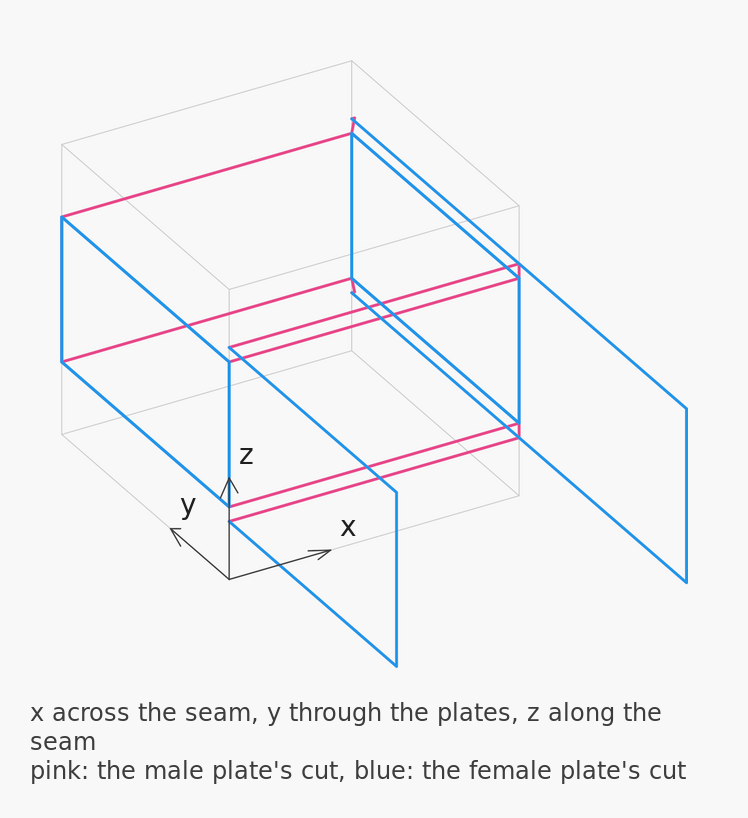
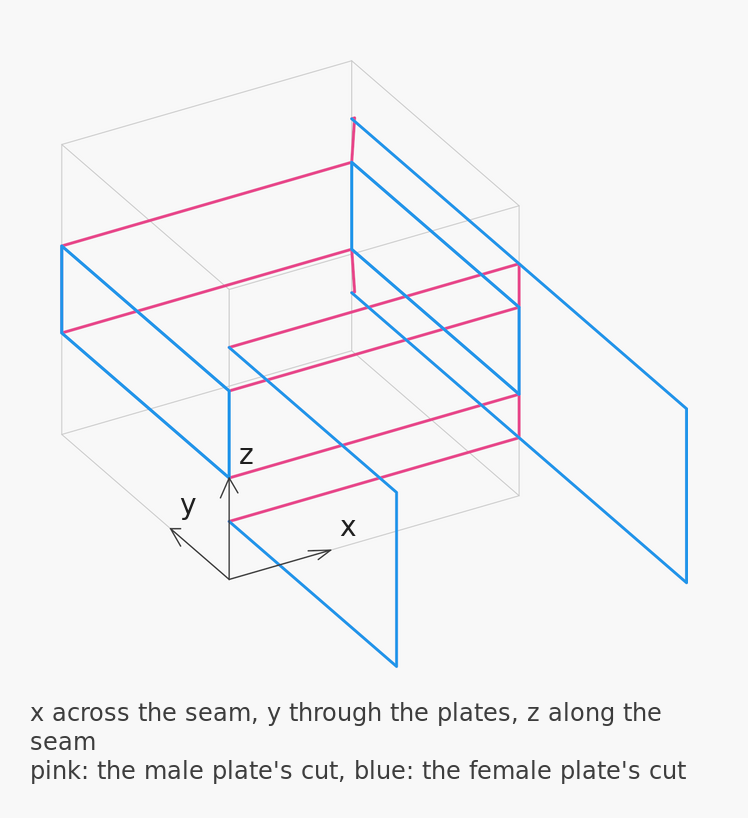
ss_e_op_3: the tenon and its mortise 0.3 of the joint line wide, a shoulder of 0.15 on each side

diff --git a/src/joinery_solver/wood_interaction/wood_interaction_feature/wood_interaction_feature_plate_joints/ss_e_op_3.h b/src/joinery_solver/wood_interaction/wood_interaction_feature/wood_interaction_feature_plate_joints/ss_e_op_3.h
@@ -1,4 +1,5 @@
-/// ss_e_op_3: miter tenon-mortise - four female outlines (two insert_between, two hole), two male. 2024 ran the tenon half a thickness
+/// ss_e_op_3: miter tenon-mortise - four female outlines (two insert_between, two hole), two male; the tenon and its mortise 0.3 of the
+/// joint line wide, a shoulder of 0.15 on each side. 2024 ran the tenon half a thickness
 /// past the floor; here it ends flush with the floor's bottom. The floor's lip around the mortise still runs a thickness past the wall.
 static void ss_e_op_3(InteractionFeaturePlate& joint) {
 
@@ -7,22 +8,22 @@ static void ss_e_op_3(InteractionFeaturePlate& joint) {
     joint.female_outlines[0] = {
         Polyline({Point(0.5,0.5,0.3), Point(0.5,-1.499975,0.3), Point(0.5,-1.499975,-0.3), Point(0.5,0.5,-0.3)}),
         Polyline({Point(0.5,0.5,0.3), Point(0.5,0.5,-0.3)}),
-        Polyline({Point(0.5,-0.5,0.25), Point(0.5,0.5,0.25), Point(0.5,0.5,-0.25), Point(0.5,-0.5,-0.25), Point(0.5,-0.5,0.25)}),
-        Polyline({Point(0.5,-0.5,0.25), Point(0.5,0.5,0.25), Point(0.5,0.5,-0.25), Point(0.5,-0.5,-0.25), Point(0.5,-0.5,0.25)}),
+        Polyline({Point(0.5,-0.5,0.15), Point(0.5,0.5,0.15), Point(0.5,0.5,-0.15), Point(0.5,-0.5,-0.15), Point(0.5,-0.5,0.15)}),
+        Polyline({Point(0.5,-0.5,0.15), Point(0.5,0.5,0.15), Point(0.5,0.5,-0.15), Point(0.5,-0.5,-0.15), Point(0.5,-0.5,0.15)}),
     };
     joint.female_outlines[1] = {
         Polyline({Point(-0.5,-0.499975,0.3), Point(-0.5,-1.49995,0.3), Point(-0.5,-1.49995,-0.3), Point(-0.5,-0.5,-0.3)}),
         Polyline({Point(-0.5,-0.499975,0.3), Point(-0.5,-0.5,-0.3)}),
-        Polyline({Point(-0.5,-0.499975,0.25), Point(-0.5,0.500025,0.25), Point(-0.5,0.500025,-0.25), Point(-0.5,-0.499975,-0.25), Point(-0.5,-0.499975,0.25)}),
-        Polyline({Point(-0.5,-0.499975,0.25), Point(-0.5,0.500025,0.25), Point(-0.5,0.500025,-0.25), Point(-0.5,-0.499975,-0.25), Point(-0.5,-0.499975,0.25)}),
+        Polyline({Point(-0.5,-0.499975,0.15), Point(-0.5,0.500025,0.15), Point(-0.5,0.500025,-0.15), Point(-0.5,-0.499975,-0.15), Point(-0.5,-0.499975,0.15)}),
+        Polyline({Point(-0.5,-0.499975,0.15), Point(-0.5,0.500025,0.15), Point(-0.5,0.500025,-0.15), Point(-0.5,-0.499975,-0.15), Point(-0.5,-0.499975,0.15)}),
     };
 
     joint.male_outlines[0] = {
-        Polyline({Point(-0.5,-0.5,0.3), Point(0.5,-0.5,0.3), Point(0.5,-0.5,0.25), Point(-0.5,-0.5,0.25), Point(-0.5,-0.5,-0.25), Point(0.5,-0.5,-0.25), Point(0.5,-0.5,-0.3), Point(-0.5,-0.5,-0.3)}),
+        Polyline({Point(-0.5,-0.5,0.3), Point(0.5,-0.5,0.3), Point(0.5,-0.5,0.15), Point(-0.5,-0.5,0.15), Point(-0.5,-0.5,-0.15), Point(0.5,-0.5,-0.15), Point(0.5,-0.5,-0.3), Point(-0.5,-0.5,-0.3)}),
         Polyline({Point(-0.5,-0.5,0.3), Point(-0.5,-0.5,-0.3)}),
     };
     joint.male_outlines[1] = {
-        Polyline({Point(0.5,0.5,0.3), Point(0.510075,0.5,0.3), Point(0.5,0.5,0.25), Point(-0.5,0.5,0.25), Point(-0.5,0.5,-0.25), Point(0.5,0.5,-0.25), Point(0.510075,0.5,-0.3), Point(0.5,0.5,-0.3)}),
+        Polyline({Point(0.5,0.5,0.3), Point(0.510075,0.5,0.3), Point(0.5,0.5,0.15), Point(-0.5,0.5,0.15), Point(-0.5,0.5,-0.15), Point(0.5,0.5,-0.15), Point(0.510075,0.5,-0.3), Point(0.5,0.5,-0.3)}),
         Polyline({Point(0.5,0.5,0.3), Point(0.5,0.5,-0.3)}),
     };
 

diff --git a/docs/elements/element_joint_plate_ss_e_op.md b/docs/elements/element_joint_plate_ss_e_op.md
@@ -93,7 +93,7 @@ Eight divisions at shift 0.64: the zigzag of `ss_e_op_1` with splayed fingers.
 const std::shared_ptr<JointPlate> joint = JointPlate::ss_e_op_3(); // a fixed design, no parameters
 ```
 
-One tenon in the middle of the wall's edge, through a mortise in a lip of the floor.
+One tenon, 0.3 of the seam wide, in the middle of the wall's edge, through a mortise in a lip of the floor.
 
 \include{lineno} elements/element_joint_plate_ss_e_op_3.cpp
 
